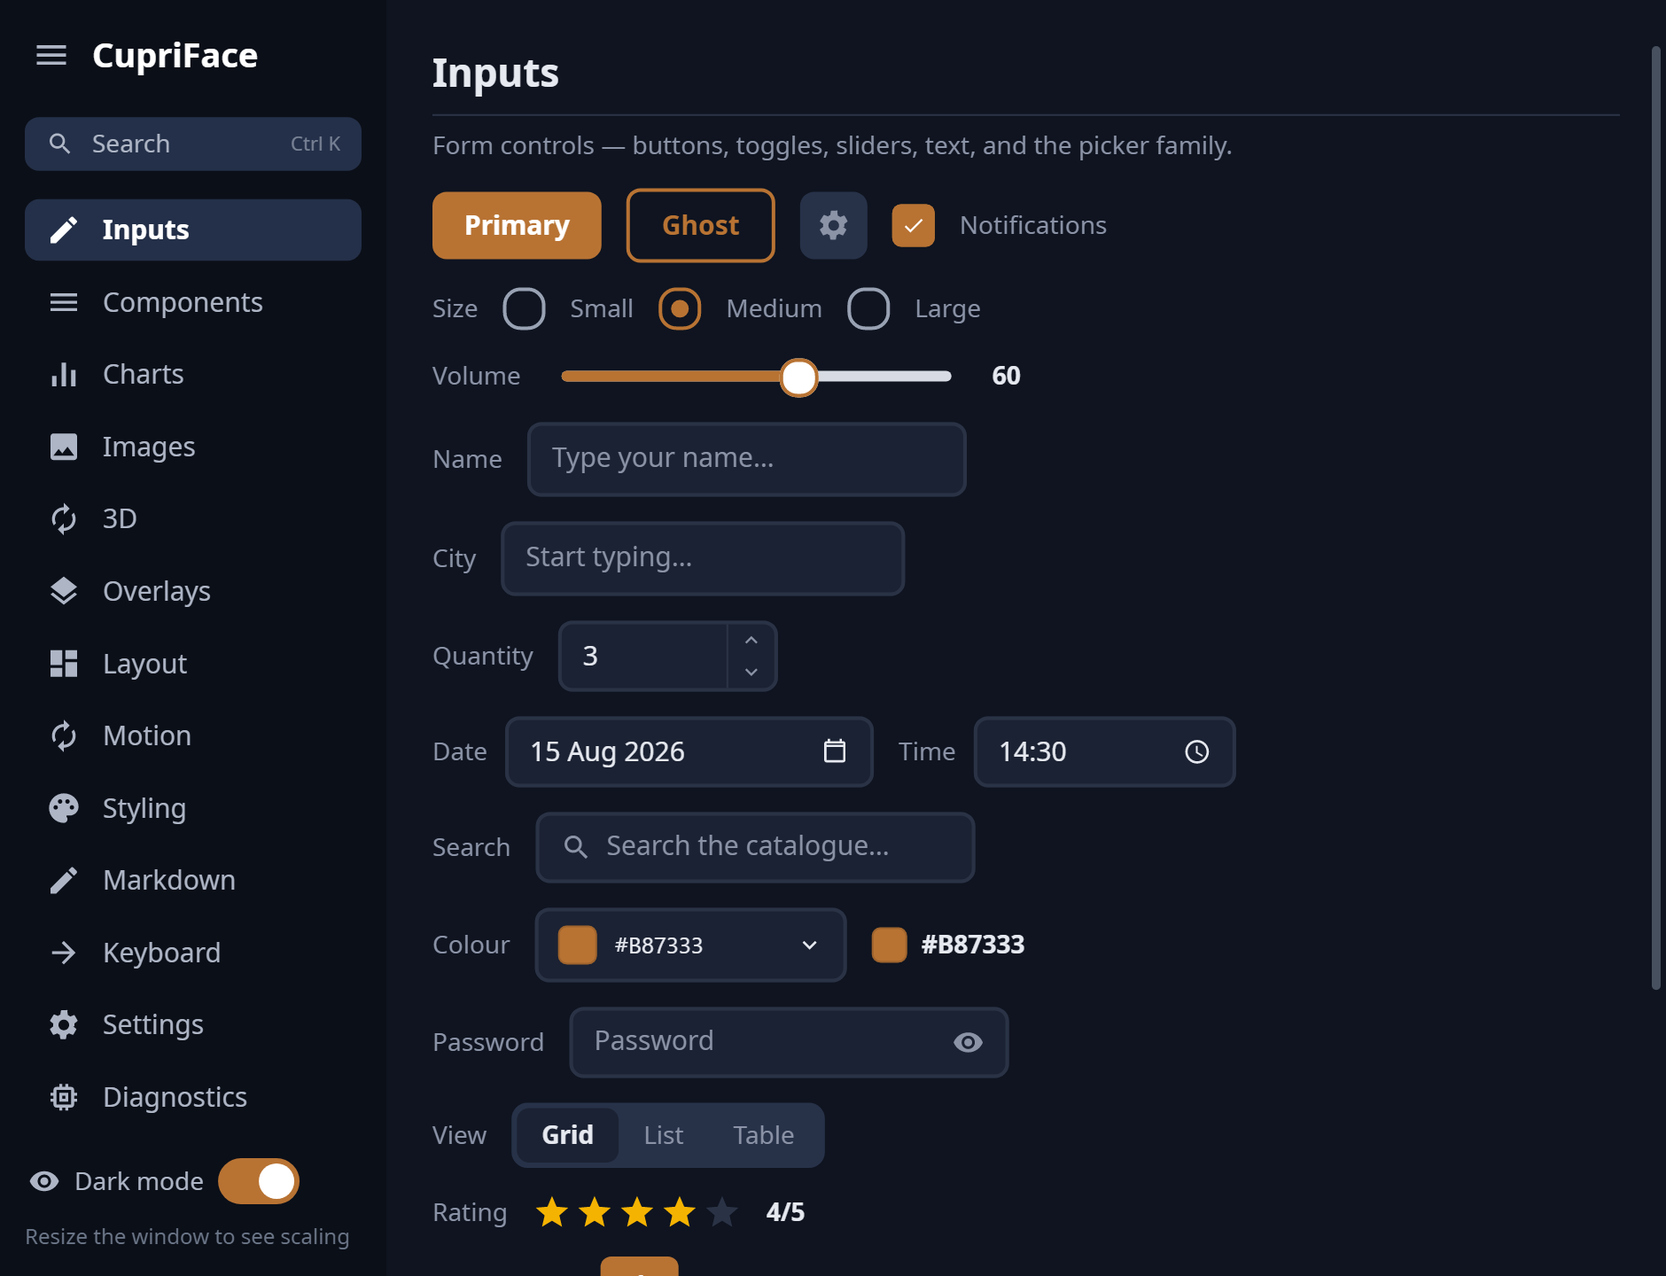
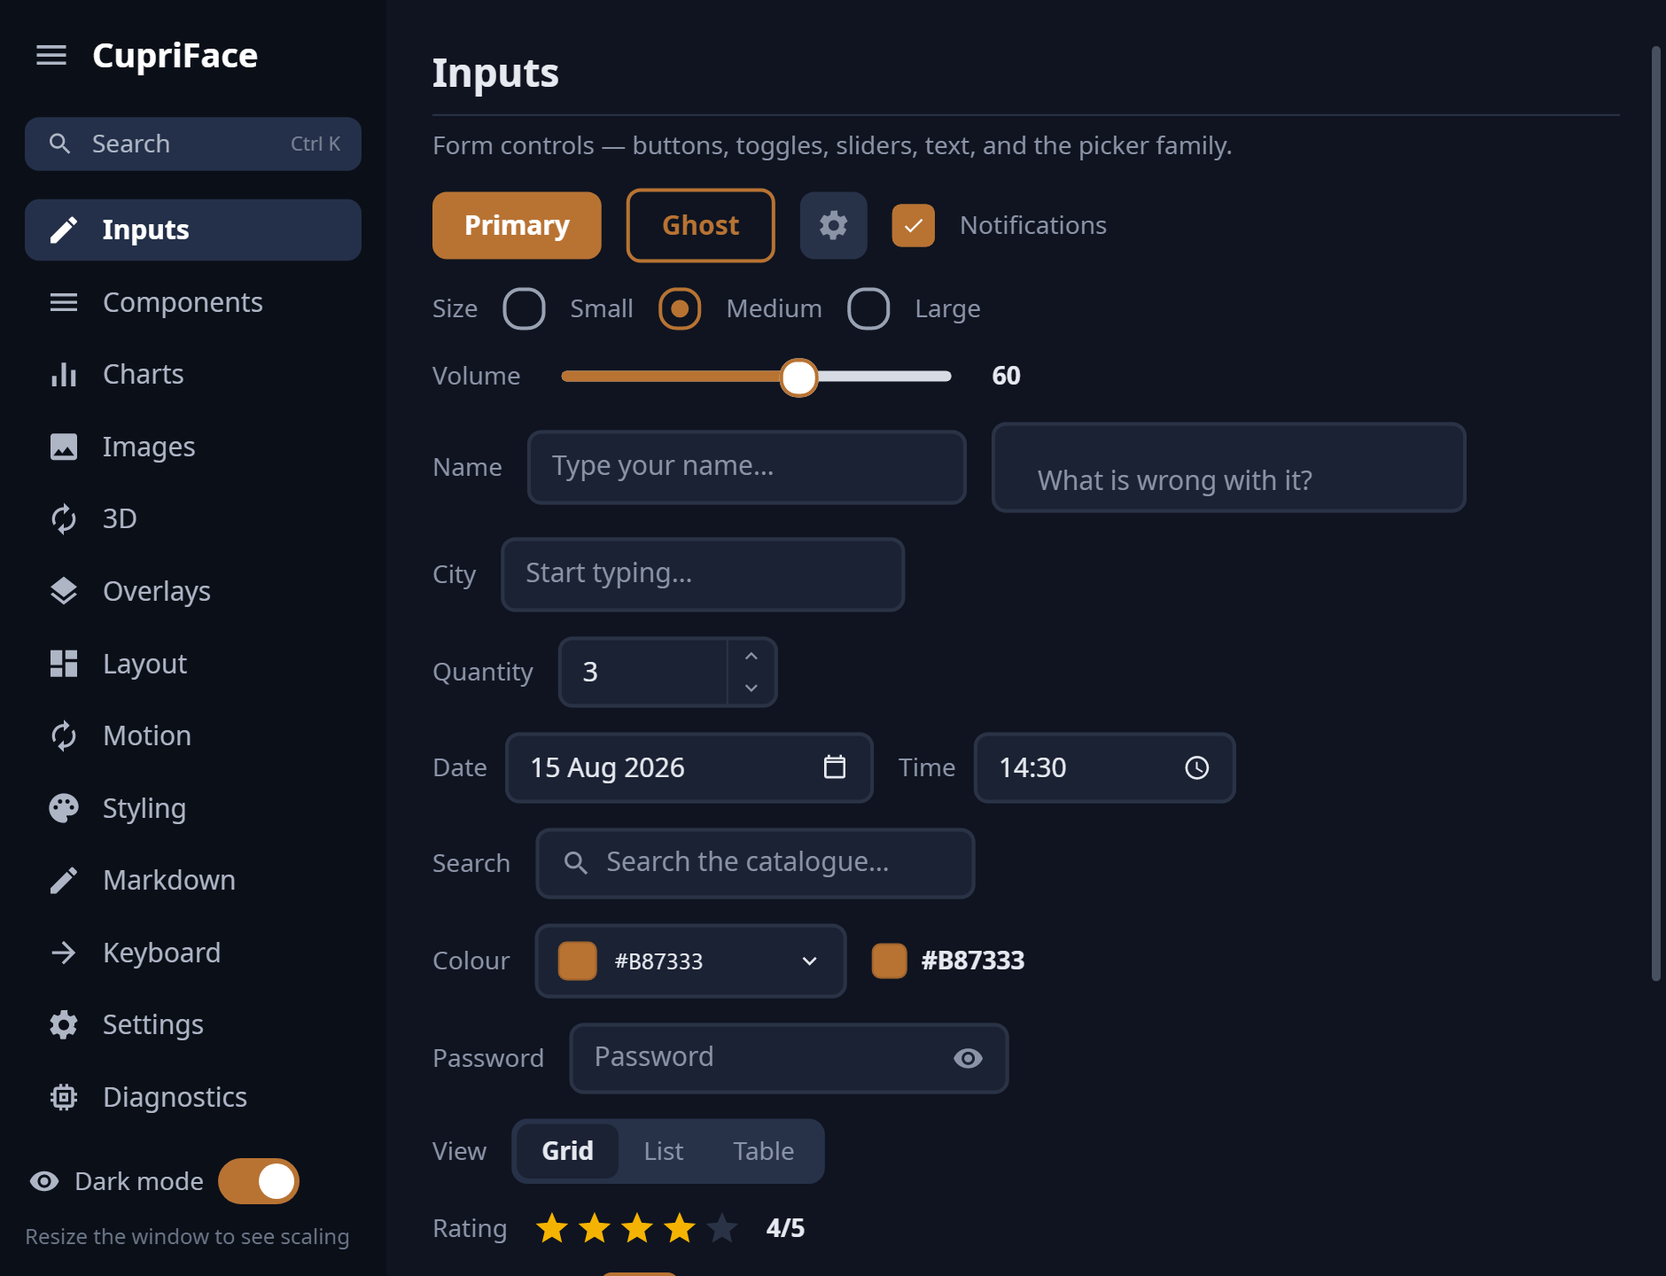
The placeholder can stay and become the label
A labelled field costs two lines: a label above and a box below. A
placeholder-only field costs one, and then forgets what it was for at the exact
moment you type into it and can no longer see the prompt. float-label costs
one. The prompt sits where the value will go while the field is empty, and
rises to a smaller line inside the box once there is a value to label.

    <cupri-textfield value="{{Feedback}}"
                     placeholder="What is wrong with it?" float-label>

Opt-in, because it changes the field's height. The label's row is reserved in
the padding whether the label has risen or not, so typing the first character
never shoves the rest of a form down — which is asserted, because it is the
thing most likely to break and the least likely to be noticed in a screenshot.
About 9px over a plain field. With no placeholder there is nothing to float, so
the attribute does nothing rather than reserving a row for an empty label.

The label rises by TRANSFORM rather than by top and font-size, because
transform is what this engine animates; it carries no colour change, since
naming a second colour would mean a theme that defines --cupri-muted saw no
change while an unthemed page did, and a difference that only appears in
someone else's app is the kind this repo can least afford.

It also reads better than a plain placeholder does. The label keeps the
placeholder class, and that is load-bearing rather than decorative: the
[…]

diff --git a/samples/DemoApp/Assets/ShowcaseApp.html b/samples/DemoApp/Assets/ShowcaseApp.html
@@ -52,7 +52,12 @@
         </div>
         <div class="row">
           <span class="lbl">Name</span>
-          <cupri-textfield value="{{Name}}" placeholder="Type your name…"></cupri-textfield>
+          <cupri-textfield value="{{Name}}" placeholder="Type your name…" style="width:200px"></cupri-textfield>
+          <!-- The same control with float-label, and DELIBERATELY no <span class="lbl"> beside it:
+               the placeholder becomes the label as soon as there is something to label, so the field
+               carries its own name and the row costs one column instead of two. Type into it. -->
+          <cupri-textfield value="{{Feedback}}" placeholder="What is wrong with it?" float-label
+                           style="width:240px"></cupri-textfield>
         </div>
         <div class="row">
           <span class="lbl">City</span>

diff --git a/tests/CupriFace.Tests/FloatLabelTests.cs b/tests/CupriFace.Tests/FloatLabelTests.cs
@@ -1,0 +1,222 @@
+using CupriFace.Accessibility;
+using CupriFace.Dom;
+using CupriFace.Interaction;
+using SkiaSharp;
+using Xunit;
+using Xunit.Abstractions;
+
+namespace CupriFace.Tests;
+
+/// <summary>
+/// <c>float-label</c> on <c>&lt;cupri-textfield&gt;</c>: the placeholder stays as a label once the
+/// field has something in it, instead of vanishing at the moment it is most needed.
+///
+/// <para>The point is space. A labelled field normally costs two lines — a label above and a box
+/// below — and a placeholder-only field costs one but forgets what it was for as soon as you type
+/// into it. This costs one: the prompt sits where the value will go while the field is empty, and
+/// rises to a smaller line inside the box once there is a value to label.</para>
+///
+/// <para>The row is reserved whether the label has risen or not. Typing the first character must not
+/// shove the rest of a form down, which is asserted below because it is the thing most likely to
+/// break and the least likely to be noticed in a screenshot.</para>
+/// </summary>
+public class FloatLabelTests(ITestOutputHelper output)
+{
+    private sealed class M { public string Note { get; set; } = ""; }
+
+    private const string Css = "body{margin:0;font-family:sans-serif;background:#fff}"
+                             + "cupri-textfield{width:320px}";
+
+    private static (TestDoc T, M Model) Field(string value, bool floatLabel = true,
+                                              string placeholder = "What is wrong with it?")
+    {
+        var m = new M { Note = value };
+        var ph = placeholder.Length > 0 ? $" placeholder='{placeholder}'" : "";
+        var fl = floatLabel ? " float-label" : "";
+        var t = new TestDoc($"<body><cupri-textfield value='{{{{Note}}}}'{ph}{fl}></cupri-textfield></body>",
+                            Css, m, width: 380, height: 140, components: true);
+        return (t, m);
+    }
+
+    private static RenderNode? LabelNode(TestDoc t)
+        => t.Find(n => n.Element?.ClassList.Contains("cupri-tf-label") == true);
+
+    private static bool Raised(TestDoc t) => LabelNode(t)?.Element?.HasAttribute("data-raised") == true;
+
+    private static AccessibilityNode Textbox(TestDoc t)
+    {
+        AccessibilityNode? Walk(AccessibilityNode n)
+        {
+            if (n.Role == "textbox") return n;
+            foreach (var c in n.Children) { var f = Walk(c); if (f is not null) return f; }
+            return null;
+        }
+        return Walk(t.Doc.BuildAccessibilityTree(380, 140))!;
+    }
+
+    // ---- the two states ---------------------------------------------------------------------
+
+    [Fact]
+    public void An_empty_field_shows_the_prompt_where_the_value_will_go()
+    {
+        using var t = Field("").T;
+        var label = LabelNode(t);
+
+        Assert.NotNull(label);
+        Assert.False(Raised(t));
+        t.Dispose();
+    }
+
+    [Fact]
+    public void A_field_with_a_value_raises_its_label()
+    {
+        var (t, _) = Field("test123");
+        Assert.True(Raised(t));
+        t.Dispose();
+    }
+
+    /// <summary>The label rises when someone TYPES, not only when the model arrives pre-filled —
+    /// which is the whole interaction and goes through a rebuild to get there.</summary>
+    [Fact]
+    public void Typing_the_first_character_raises_the_label()
+    {
+        var (t, m) = Field("");
+        t.ClickNode(t.FindClass("cupri-textfield"));
+        Assert.False(Raised(t));
+
+        t.Type("a");
+        Assert.True(Raised(t));
+
+        // …and deleting it back to empty puts the prompt back where it started.
+        t.Key(EditKey.Backspace);
+        Assert.False(Raised(t));
+        output.WriteLine("model: '" + m.Note + "'");
+        t.Dispose();
+    }
+
+    /// <summary>Nothing below the field may move when the label rises. The row is reserved in the
+    /// padding either way; if it were not, every field in a form would jog downward on the first
+    /// keystroke.</summary>
+    [Fact]
+    public void The_field_is_the_same_height_empty_and_filled()
+    {
+        var (a, _) = Field("");
+        var empty = a.FindClass("cupri-textfield").Height;
+        a.Dispose();
+
+        var (b, _) = Field("test123");
+        var filled = b.FindClass("cupri-textfield").Height;
+        b.Dispose();
+
+        output.WriteLine($"empty {empty:0.0}  filled {filled:0.0}");
+        Assert.Equal(empty, filled, 0.5);
+    }
+
+    // ---- what it costs, and what it leaves alone -----------------------------------------------
+
+    /// <summary>It is taller than a plain field, because it holds two rows of information. Asserted
+    /// so the cost is a stated number rather than a surprise in someone's layout.</summary>
+    [Fact]
+    public void It_is_taller_than_a_plain_field_but_not_by_much()
+    {
+        var (a, _) = Field("test123");
+        var floated = a.FindClass("cupri-textfield").Height;
+        a.Dispose();
+
+        var (b, _) = Field("test123", floatLabel: false);
+        var plain = b.FindClass("cupri-textfield").Height;
+        b.Dispose();
+
+        output.WriteLine($"plain {plain:0.0}  float-label {floated:0.0}");
+        Assert.InRange(floated - plain, 1f, 14f);
+    }
+
+    /// <summary>A field that did not ask for it is untouched — same markup as before, placeholder
+    /// span and all.</summary>
+    [Fact]
+    public void A_field_without_the_attribute_keeps_the_old_behaviour()
+    {
+        var (t, _) = Field("", floatLabel: false);
+
+        Assert.Null(LabelNode(t));
+        Assert.NotNull(t.Find(n => n.Element?.ClassList.Contains("cupri-tf-ph") == true));
+        Assert.False(t.FindClass("cupri-textfield").Element!.HasAttribute("data-float-label"));
+        t.Dispose();
+    }
+
+    /// <summary>There is nothing to float without a placeholder, so the attribute does nothing
+    /// rather than reserving a row for an empty label.</summary>
+    [Fact]
+    public void Without_a_placeholder_the_attribute_is_a_no_op()
+    {
+        var (t, _) = Field("test123", placeholder: "");
+
+        Assert.Null(LabelNode(t));
+        Assert.False(t.FindClass("cupri-textfield").Element!.HasAttribute("data-float-label"));
+        t.Dispose();
+    }
+
+    // ---- what a screen reader gets --------------------------------------------------------------
+
+    /// <summary>
+    /// The label must not become part of the VALUE. It is rendered text inside the field, so the
+    /// obvious implementation reads back "What is wrong with it? test123" as the thing someone
+    /// typed. It carries the placeholder class for exactly this reason.
+    /// </summary>
+    [Fact]
+    public void The_label_is_not_read_back_as_the_value()
+    {
+        var (t, _) = Field("test123");
+        var box = Textbox(t);
+        output.WriteLine($"name='{box.Name}' value='{box.Value}'");
+
+        Assert.Equal("test123", (box.Value ?? "").Trim());
+        t.Dispose();
+    }
+
+    /// <summary>…and it IS the field's name, in both states. That is better than an ordinary
+    /// placeholder manages: that one is only rendered while the field is empty.</summary>
+    [Theory]
+    [InlineData("")]
+    [InlineData("test123")]
+    public void The_field_is_named_by_its_label_whether_or_not_it_has_a_value(string value)
+    {
+        var (t, _) = Field(value);
+        Assert.Equal("What is wrong with it?", Textbox(t).Name);
+        t.Dispose();
+    }
+
+    // ---- and what someone actually sees ---------------------------------------------------------
+
+    /// <summary>The topmost row of pixels the label's ink occupies. A raised label has to be higher
+    /// than a resting one — the display list can say `data-raised` all it likes.</summary>
+    private static int LabelTop(TestDoc t)
+    {
+        using var bmp = t.Render(SKColors.White);
+        for (var y = 0; y < bmp.Height; y++)
+            for (var x = 14; x < 200; x++)
+            {
+                var p = bmp.GetPixel(x, y);
+                // The muted grey of the label, not the field's border or its near-black value text.
+                if (p.Red is > 120 and < 190 && p.Green is > 130 and < 200 && p.Blue is > 140 and < 215)
+                    return y;
+            }
+        return -1;
+    }
+
+    [Fact]
+    public void The_label_actually_moves_up_on_screen()
+    {
+        var (a, _) = Field("");
+        var resting = LabelTop(a);
+        a.Dispose();
+
+        var (b, _) = Field("test123");
+        var raised = LabelTop(b);
+        b.Dispose();
+
+        output.WriteLine($"resting y={resting}  raised y={raised}");
+        Assert.True(resting > 0 && raised > 0, $"could not find the label (resting {resting}, raised {raised})");
+        Assert.True(raised < resting - 6, $"the raised label should sit clearly higher: {raised} vs {resting}");
+    }
+}

diff --git a/src/CupriFace/Components/Controls/TextFieldComponent.cs b/src/CupriFace/Components/Controls/TextFieldComponent.cs
@@ -22,6 +22,23 @@ public sealed class TextFieldComponent : ComponentBase
         .cupri-textfield[data-invalid] { border-color:#d92d20; }
         .cupri-tf-text { color:var(--cupri-text, #1e2430); }
         .cupri-tf-ph { color:var(--cupri-muted, #98a2b3); }
+
+        /* float-label: the placeholder IS the label. It sits where the value will be while the
+           field is empty, and rises to a smaller line above it once there is something to label —
+           so one field costs one label's worth of height instead of two, and an empty form still
+           reads as prompts rather than as a column of headings.
+
+           The row is reserved in the padding whether the label has risen or not, so typing the
+           first character does not shove the rest of the form down. */
+        .cupri-textfield[data-float-label] { position:relative; padding-top:22px; padding-bottom:5px; }
+        /* Colour comes from .cupri-tf-ph and does not change when it rises. Darkening it would
+           have to name a second colour, and a theme that defines --cupri-muted would then see no
+           change at all while an unthemed page did — a difference that only shows up in someone
+           else's app. Size and position carry the state instead, in both. */
+        .cupri-tf-label { position:absolute; left:12px; top:0; font-size:15px;
+                          transform-origin:left center; transition:transform 150ms; }
+        /* transform, not top/font-size: transform is what this engine animates. */
+        .cupri-tf-label[data-raised] { transform:translateY(-17px) scale(0.76); }
         /* Inline validation message the engine injects after an invalid, visited field. */
         .cupri-field-error { display:block; color:#d92d20; font-size:13px; margin:5px 0 2px; }
         """;
@@ -31,10 +48,40 @@ public sealed class TextFieldComponent : ComponentBase
         var value = Str(el, "value");
         el.SetAttribute("role", "textbox");
         el.ClassList.Add("cupri-textfield");
+
+        // float-label: the placeholder becomes a label once the field has something in it, instead
+        // of vanishing the moment it is most needed. Opt-in, because it changes the field's height
+        // and a dense form full of them is not always what an author wants.
+        var placeholder = Str(el, "placeholder");
+        if (Flag(el, "float-label") && placeholder.Length > 0)
+        {
+            el.SetAttribute("data-float-label", "");
+            // The caret anchor is the VALUE span either way, empty or not, so the caret sits on the
+            // text line rather than on the label — the label is a label, not the text being edited.
+            el.InnerHtml = Label(placeholder, raised: value.Length > 0)
+                           + $"<span class='cupri-tf-text' data-caret-anchor>{Escape(value)}</span>";
+            return;
+        }
+
         el.InnerHtml = value.Length > 0
             ? $"<span class='cupri-tf-text' data-caret-anchor>{Escape(value)}</span>"
-            : $"<span class='cupri-tf-ph' data-caret-anchor>{Escape(Str(el, "placeholder"))}</span>";
+            : $"<span class='cupri-tf-ph' data-caret-anchor>{Escape(placeholder)}</span>";
     }
+
+    /// <summary>
+    /// The floating label. <c>data-raised</c> rather than a second class so the state is one
+    /// attribute an author can style on, and so the element itself persists across the rebuild that
+    /// flips it — which is what lets the transition run rather than snap.
+    ///
+    /// <para>It keeps <c>cupri-tf-ph</c> as well, and that is not decoration. The accessibility tree
+    /// treats any class ending <c>-ph</c> as a placeholder: excluded from the field's VALUE, and used
+    /// as its NAME when nothing else names it. Without that the label's words would be read back as
+    /// part of what someone had typed — "What is wrong with it? test123". With it, this field is
+    /// named in BOTH states, which is better than an ordinary placeholder manages: that one is only
+    /// rendered while the field is empty, so a filled field fell through to the attribute.</para>
+    /// </summary>
+    internal static string Label(string text, bool raised) =>
+        $"<span class='cupri-tf-ph cupri-tf-label'{(raised ? " data-raised" : "")}>{Escape(text)}</span>";
 
     private static string Escape(string s) =>
         s.Replace("&", "&amp;").Replace("<", "&lt;").Replace(">", "&gt;");

diff --git a/samples/DemoApp/ShowcaseApp.cs b/samples/DemoApp/ShowcaseApp.cs
@@ -413,6 +413,9 @@ public sealed partial class ShowcaseModel
 
     public int Volume { get; set; } = 60;
     public string Name { get; set; } = "";
+    /// <summary>The float-label demo's field, empty on purpose: the whole point only shows when you
+    /// type into it, and a pre-filled one would look like an ordinary labelled field.</summary>
+    public string Feedback { get; set; } = "";
     public string City { get; set; } = "";
     // Validation demo form.
     public string SignupName { get; set; } = "";

diff --git a/TOOLBOX.md b/TOOLBOX.md
@@ -341,6 +341,28 @@ outside of an input dispatch (e.g. a background timer), call `doc.Refresh()` (or
   (Ctrl+C/X/V), and **undo/redo** (Ctrl+Z / Ctrl+Y or Ctrl+Shift+Z — history is per‑field) on both
   desktop and web. Editing is permissive: the field shows a red border while a value is invalid and
   validates/clamps on blur.
+- **`float-label` — the placeholder becomes the label.** A labelled field normally costs two lines,
+  a label above and a box below. A placeholder-only field costs one, and then forgets what it was
+  for the moment you type into it. `float-label` costs one: the prompt sits where the value will go
+  while the field is empty, and rises to a smaller line inside the box once there is a value to
+  label.
+  ```html
+  <!-- no separate label element beside it — the field carries its own name -->
+  <cupri-textfield value="{{Feedback}}" placeholder="What is wrong with it?" float-label></cupri-textfield>
+  ```
+  Opt‑in, because it changes the field's height: the label's row is reserved in the padding whether
+  the label has risen or not, so typing the first character never shoves the rest of a form down.
+  That costs about 9px over a plain field. It needs a `placeholder` to have anything to float — with
+  none, the attribute does nothing rather than reserving a row for an empty label.
+
+  **It is also better named than a plain placeholder.** The label carries the placeholder class, so
+  the accessibility tree keeps it out of the field's *value* and uses it as the field's *name* — in
+  both states. An ordinary placeholder is only rendered while the field is empty, so a filled field
+  has to fall back to the attribute.
+
+  Single‑line fields only for now. In a `cupri-textarea` the box scrolls its own content, and a
+  label pinned inside it would scroll away with the text.
+
 - **Validation.** A bound field can carry `required`, `pattern="regex"`, `minlength`, and numeric
   `min`/`max`. The engine shows the red border while a rule fails and injects an inline error message
   **once the field is left** (blurred) or the form is validated — so it never nags mid‑type. `error="…"`
@@ -560,7 +582,7 @@ static config unless noted.
 | `<cupri-progress>` | Read‑only progress bar | `value` (0), `max` (100) | — | — | `progressbar` |
 | `<cupri-button>` | Themed button | `variant` (`primary`\|`ghost`) | — | label text/HTML | `button` |
 | `<cupri-icon-button>` | Icon‑only button | `icon` | — | — | `button` |
-| `<cupri-textfield>` | Single‑line text input | `value`, `placeholder` | `value` | — | `textbox` |
+| `<cupri-textfield>` | Single‑line text input | `value`, `placeholder`, `float-label` | `value` | — | `textbox` |
 |  ↳ *draws its value with* `var(--cupri-text, …)` *and its placeholder with* `var(--cupri-muted, …)` — **not** the inherited `color`, so a dark theme must set those variables or the typed value stays near-black. | | | | | |
 | `<cupri-number>` | Numeric field + `−/+` steppers | `value`, `min`, `max`, `step` | `value` | — | `spinbutton` |
 | `<cupri-textarea>` | Multi‑line text input | `value`, `placeholder`, `follow-tail` | `value` | — | `textbox` (`aria-multiline`) |

diff --git a/RELEASE-NOTES.md b/RELEASE-NOTES.md
@@ -15,6 +15,23 @@ Keep entries short and say what a caller must DO. The audience is someone whose 
 
 ## Unreleased
 
+### Added
+
+- **`float-label` on `<cupri-textfield>`: the placeholder becomes the label.** A labelled field costs
+  two lines, a label above and a box below; a placeholder-only field costs one and then forgets what
+  it was for the moment you type into it. This costs one. The prompt sits where the value will go
+  while the field is empty and rises to a smaller line inside the box once there is a value to label.
+
+  Opt-in, because it changes the field's height — the label's row is reserved whether the label has
+  risen or not, so typing the first character never shoves the rest of a form down. About 9px over a
+  plain field. With no `placeholder` the attribute does nothing rather than reserving a row for an
+  empty label. Single-line fields only: a `cupri-textarea` scrolls its own content and a label pinned
+  inside it would scroll away with the text.
+
+  It is also better *named* than a plain placeholder. The label carries the placeholder class, so the
+  accessibility tree keeps it out of the field's value and uses it as the field's name in **both**
+  states — an ordinary placeholder is only rendered while the field is empty.
+
 ### Fixed
 
 - **`CupriFace.Android`'s CoreCLR pin now actually reaches apps that consume the package.** It
